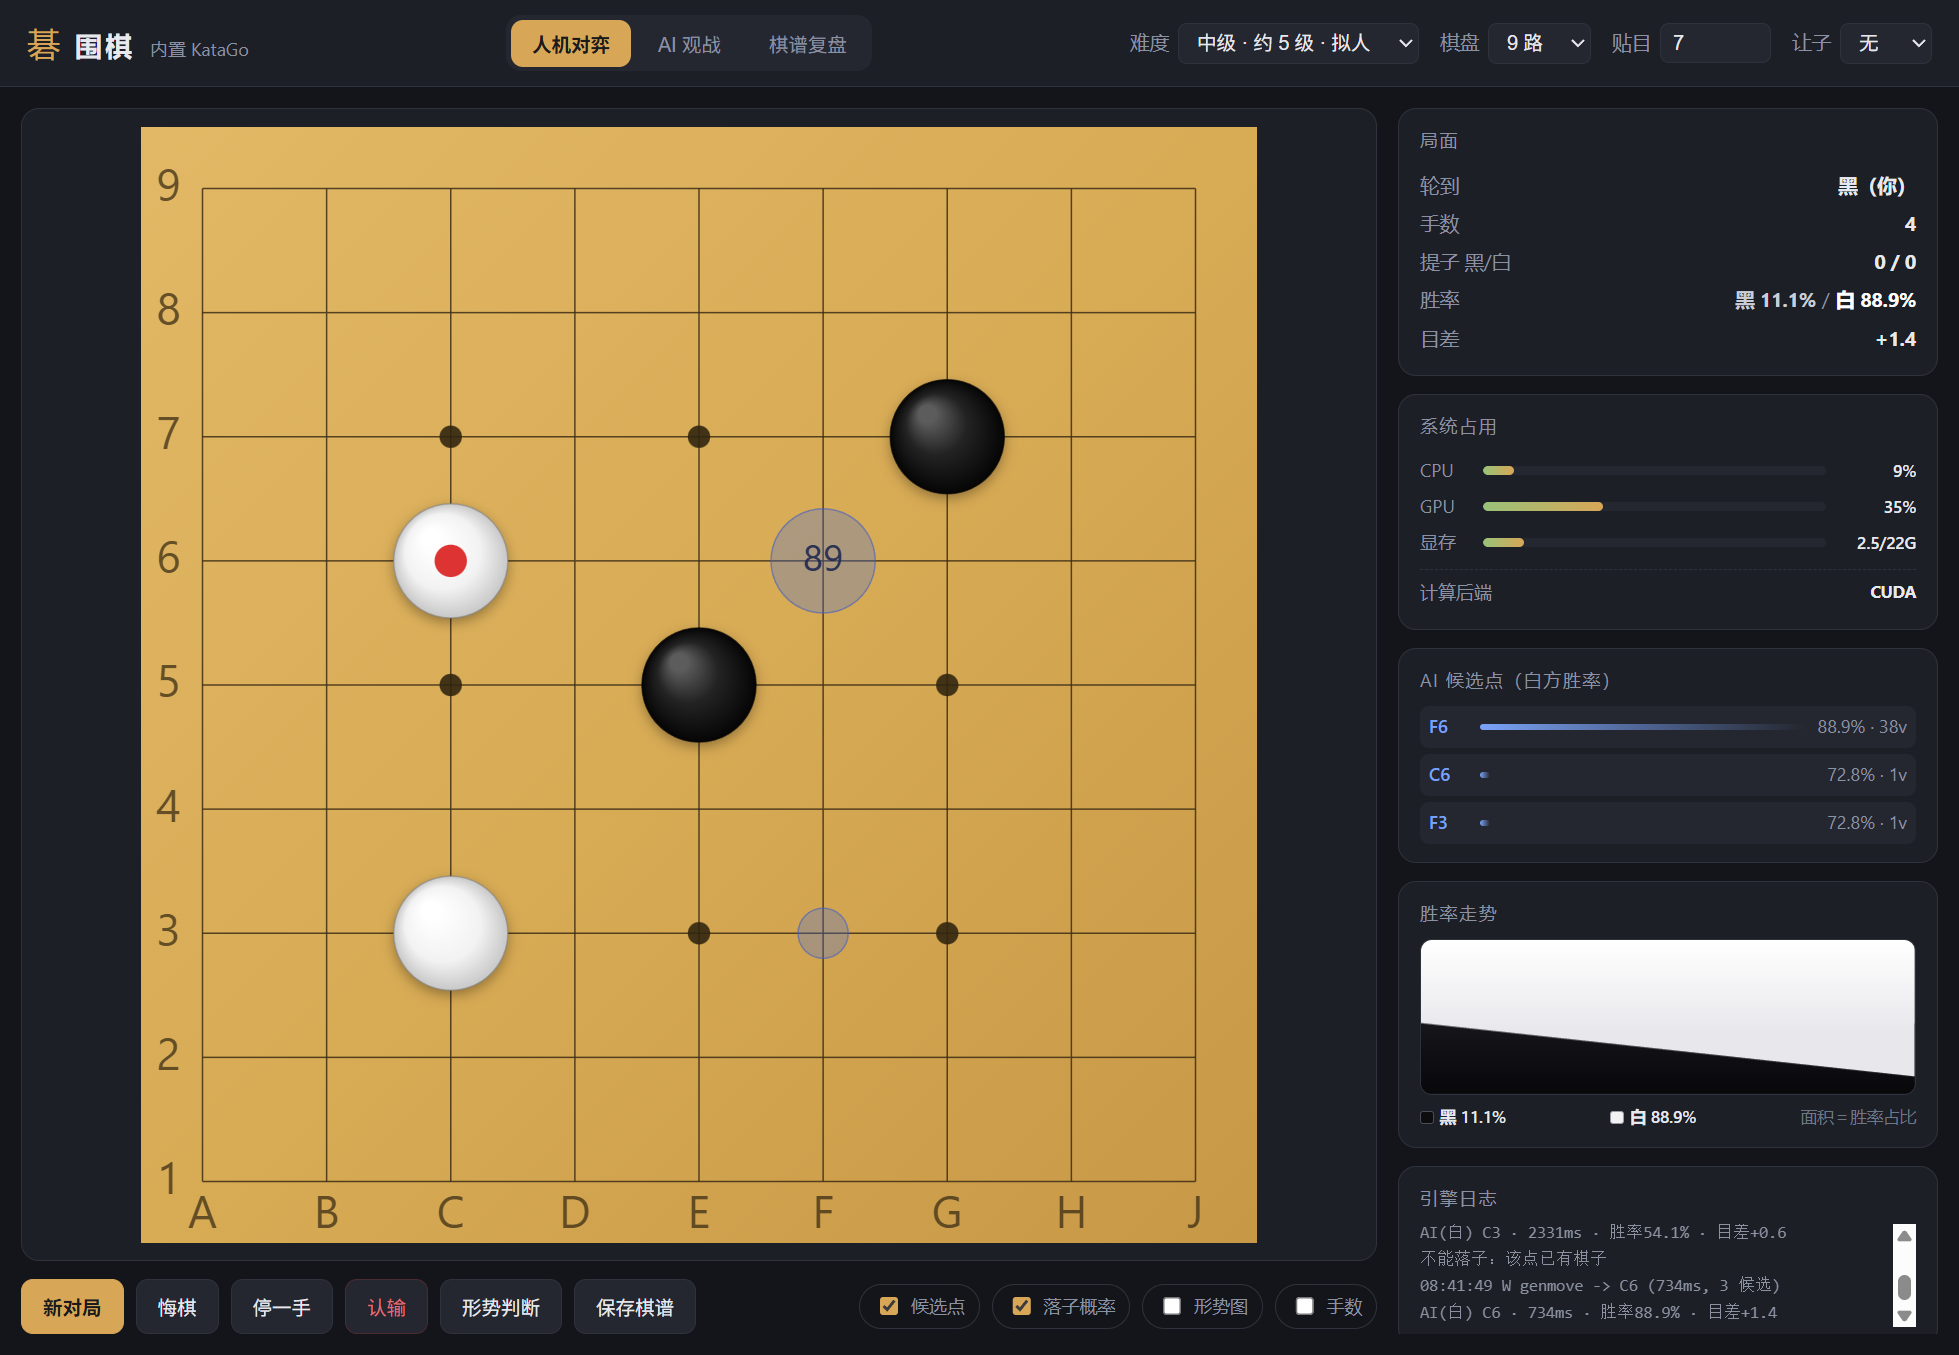
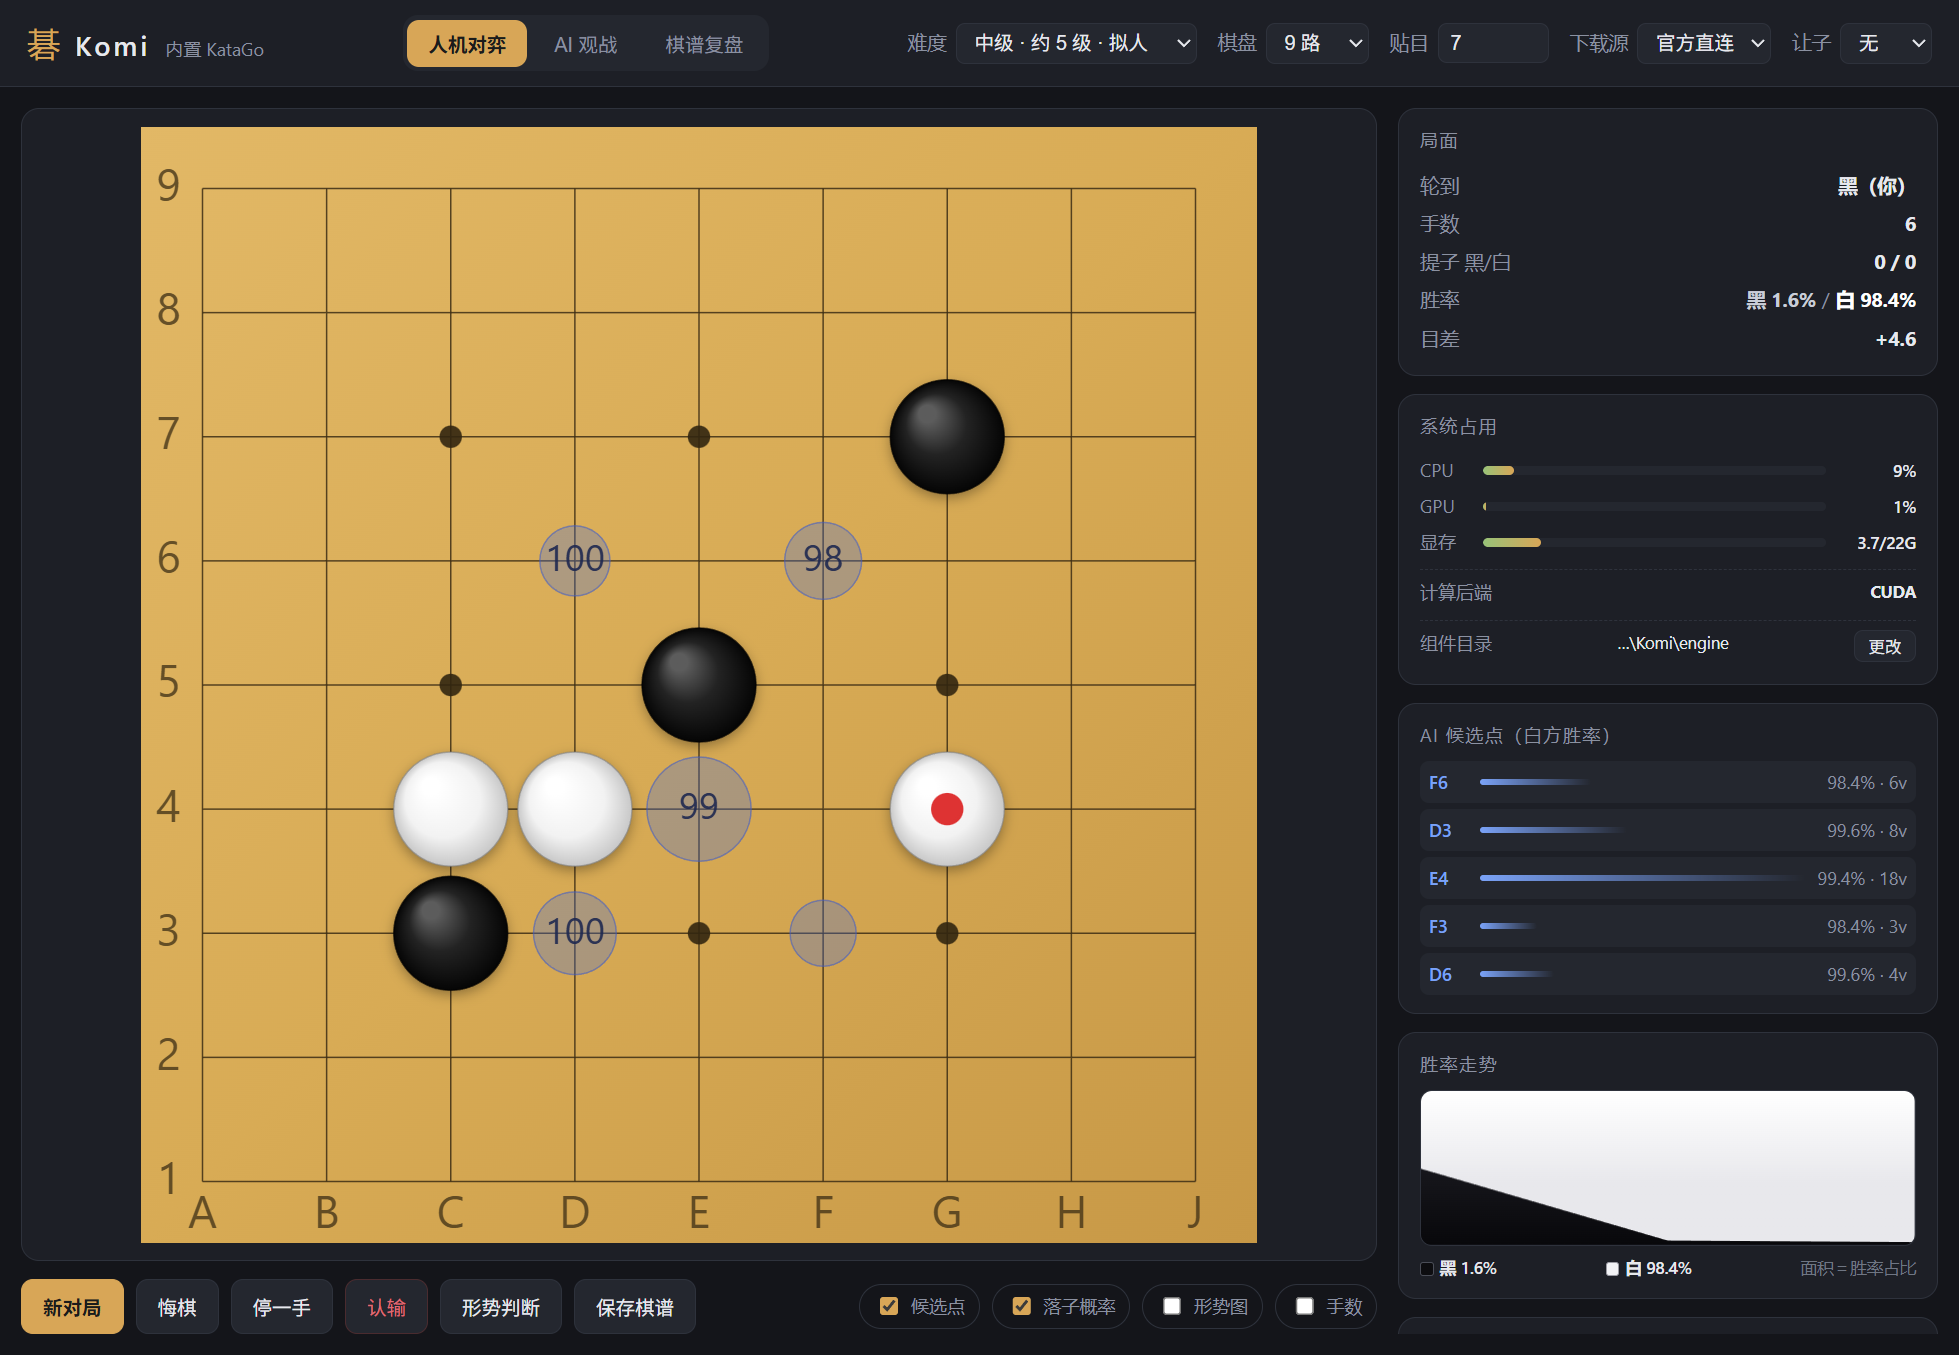
统一品牌为 Komi：修正 package-lock 元数据、User-Agent、重新生成预览图

diff --git a/src/main/components.js b/src/main/components.js
@@ -46,7 +46,7 @@ async function resolvePypi(pkg, mirror = 'direct') {
   }
 
   const res = await fetch(`https://pypi.org/pypi/${pkg}/json`, {
-    headers: { 'User-Agent': 'go-game-installer/1.0' },
+    headers: { 'User-Agent': 'komi-installer/1.0' },
   });
   if (!res.ok) throw new Error(`无法解析 ${pkg}: HTTP ${res.status}`);
   const json = await res.json();
@@ -311,7 +311,7 @@ export async function installComponent(comp, engineRoot, onProgress, options = {
     const failures = [];
     for (const cand of urls) {
       try {
-        const r = await fetch(cand, { redirect: 'follow', headers: { 'User-Agent': 'go-game-installer/1.0' } });
+        const r = await fetch(cand, { redirect: 'follow', headers: { 'User-Agent': 'komi-installer/1.0' } });
         if (!r.ok) {
           failures.push(`${cand} → HTTP ${r.status}`);
           continue;

diff --git a/src/main/mirrors.js b/src/main/mirrors.js
@@ -56,7 +56,7 @@ export function candidateUrls(url, mode) {
  */
 export async function resolvePypiViaMirror(pkg) {
   const url = `${PYPI_MIRROR.simple}/${pkg}/`;
-  const res = await fetch(url, { headers: { 'User-Agent': 'go-game-installer/1.0' } });
+  const res = await fetch(url, { headers: { 'User-Agent': 'komi-installer/1.0' } });
   if (!res.ok) return null;
   const html = await res.text();
 
